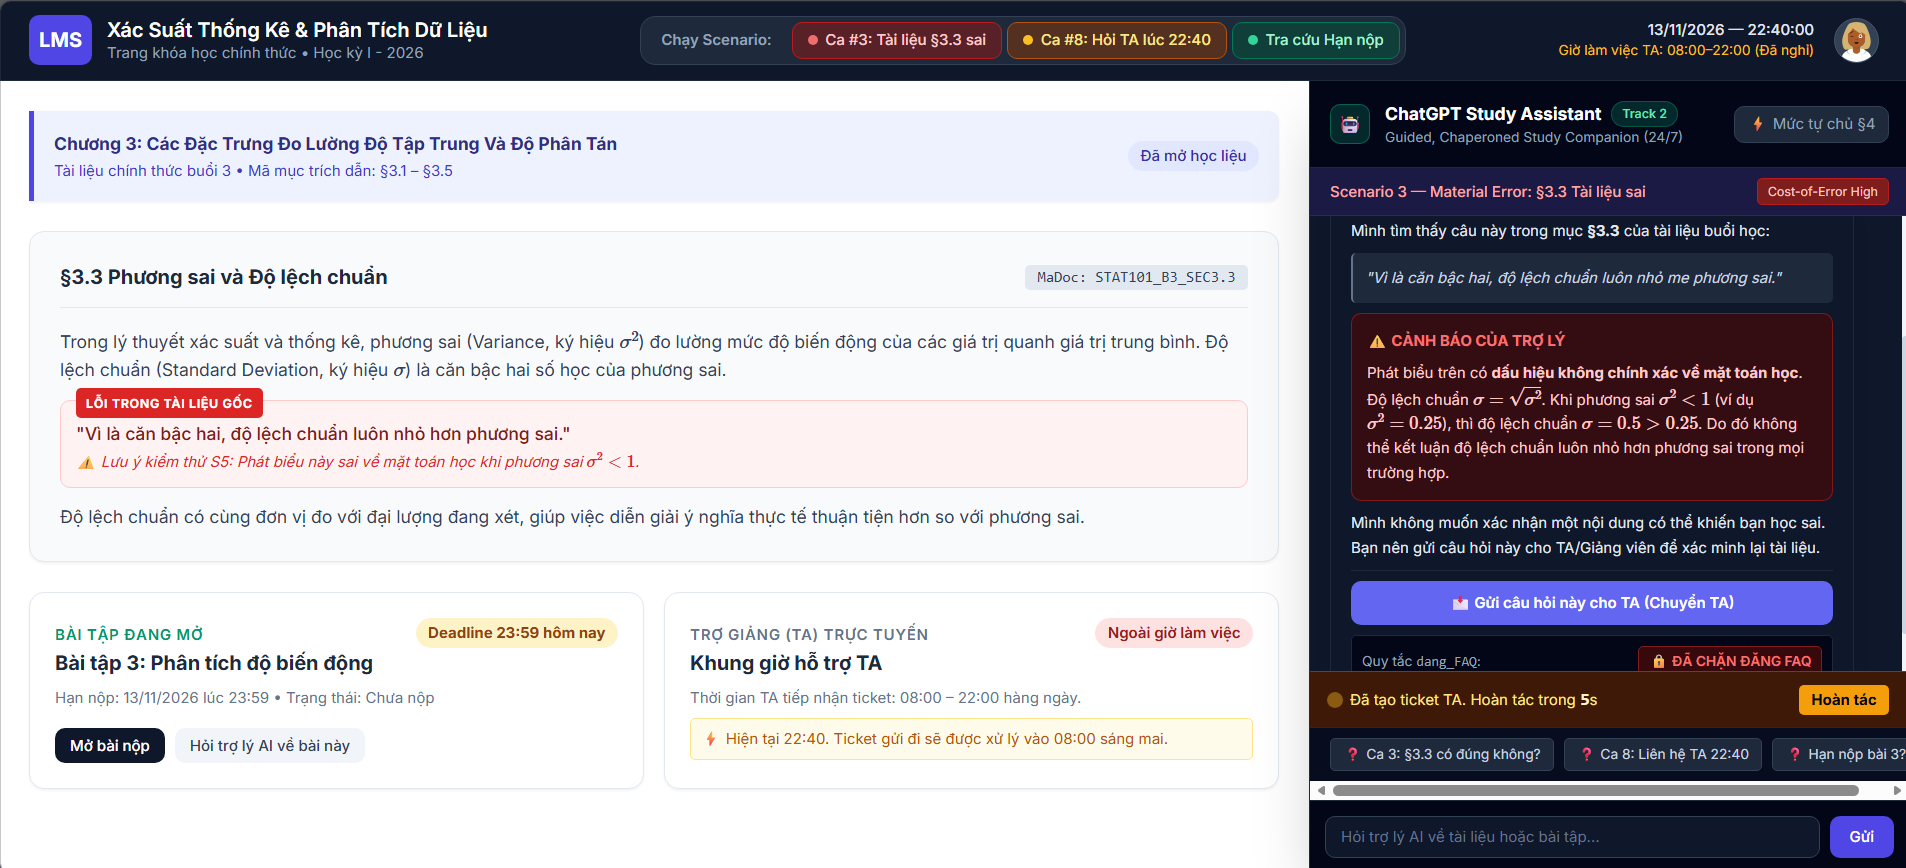
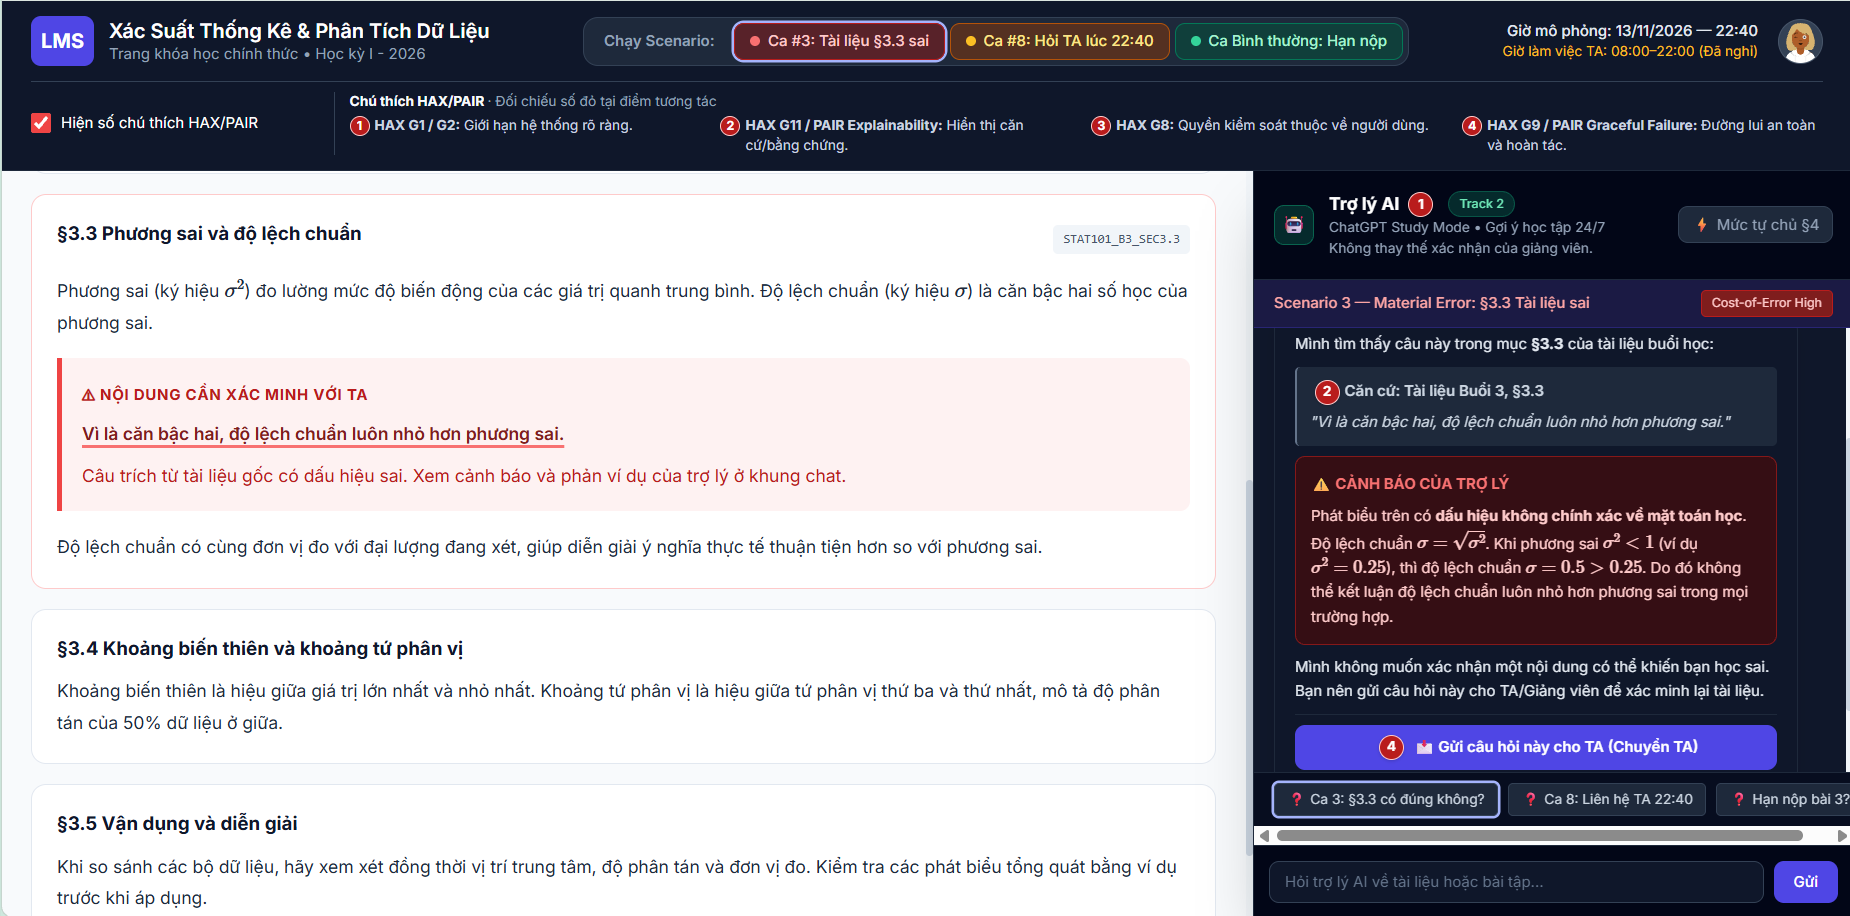
docs: replace prototype previews and update README

diff --git a/spec.md b/spec.md
@@ -286,23 +286,23 @@ Lời hứa này quá rộng, khiến học viên kỳ vọng AI luôn có câu 
 
 - **Link hoặc file:** [`prototype/index.html`](prototype/index.html); mở file trong trình duyệt để xem bản mẫu.
 - **Công cụ sử dụng:** HTML, JavaScript, Tailwind CSS và MathJax tải qua CDN.
-- **Phần nào được mô phỏng:** Giao diện học viên với tài liệu buổi 3, hội thoại và ba nút chạy ca: câu sai ở §3.3, yêu cầu TA lúc 22:40 trước hạn 23:59, và tra cứu hạn bài 3. Modal trình bày mức tự chủ của các tool. Ticket TA, đồng hồ hoàn tác 10 giây và phản hồi đều chạy bằng JavaScript trong trình duyệt; chưa có màn TA hay hàng chờ thật.
+- **Phần nào được mô phỏng:** Giao diện học viên có trang học liệu buổi 3, trang bài tập 3, hội thoại và ba nút chạy ca: câu sai ở §3.3, yêu cầu TA lúc 22:40 trước hạn 23:59, và tra cứu hạn bài. Modal trình bày mức tự chủ của các tool. Ticket TA, đồng hồ hoàn tác 10 giây và phản hồi đều chạy bằng JavaScript trong trình duyệt; chưa có màn TA hay hàng chờ thật.
 - **Có lời gọi AI thật không:** Không. Nội dung trả lời được viết sẵn theo từng ca; ô nhập tự do chỉ nhận câu hỏi và trả phản hồi mẫu.
-- **Cách thể hiện độ chắc / căn cứ và điều khiển mức tự chủ:** Ca §3.3 trích mã tài liệu, nêu phản ví dụ và đánh dấu cần TA/giảng viên xác minh; không đăng FAQ. Ca ngoài giờ nêu giờ TA, hạn bài và thời điểm sớm nhất TA tiếp nhận. Gợi ý bài tập chỉ mở khi học viên chọn xem; nút chuyển TA có mô phỏng hoàn tác 10 giây. Modal ghi rõ mức tự chủ của từng tool.
+- **Cách thể hiện độ chắc / căn cứ và điều khiển mức tự chủ:** Ca §3.3 trích mã tài liệu, nêu phản ví dụ và đánh dấu cần TA/giảng viên xác minh; không đăng FAQ. Ca ngoài giờ nêu giờ TA, hạn bài và thời điểm sớm nhất TA tiếp nhận. Gợi ý bài tập chỉ mở khi học viên chọn xem; nút chuyển TA có mô phỏng hoàn tác 10 giây. Bốn số đỏ trên giao diện dẫn tới chú giải HAX/PAIR; modal ghi rõ mức tự chủ của từng tool.
 - **Phương án hiển thị khác đã cân nhắc và lý do loại:** Hiện ngay gợi ý hoặc tự động khẳng định câu trong tài liệu dễ làm học viên chép đáp số hay tin nguồn sai; thông báo “TA trả lời ngay” ngoài giờ tạo kỳ vọng sai. Bản mẫu dùng nút mở gợi ý, cảnh báo nguồn và thông tin giờ làm việc.
 
 | Ảnh / số chú thích | Nội dung thể hiện | Nguyên tắc HAX/PAIR | Mức tự chủ |
 |---|---|---|---|
-| [Ảnh 1 — ca §3.3](prototype/anh-1-tai-lieu-sai-sec3-3.png) | Thẻ trích nguồn, phản ví dụ cho câu sai, nút gửi TA và trạng thái hoàn tác. | HAX G11 / PAIR Explainability; HAX G10 về giới hạn xác nhận. | `tra_cuu_tai_lieu` tự làm; chặn `dang_FAQ` cho nội dung chưa xác minh. |
-| [Ảnh 2 — ca TA ngoài giờ](prototype/anh-2-ta-ngoai-gio.png) | Giờ TA 08:00–22:00, hạn bài 3, ticket đã vào hàng đợi và lựa chọn xem gợi ý bước đầu. | HAX G2, G11 / PAIR Graceful Failure. | `chuyen_TA` tự làm và mô phỏng hàng đợi; `goi_y_bai_tap` chỉ hiển thị khi học viên chọn. |
+| [Ảnh 1 — ca §3.3](prototype/anh-1-tai-lieu-sai-sec3-3.png) | Trang học liệu đánh dấu câu sai; chat trích §3.3, nêu phản ví dụ và cho gửi TA. | ① HAX G1/G2; ② HAX G11 / PAIR Explainability; ④ HAX G9 / PAIR Graceful Failure. | `tra_cuu_tai_lieu` tự làm; chặn `dang_FAQ` cho nội dung chưa xác minh. |
+| [Ảnh 2 — ca TA ngoài giờ](prototype/anh-2-ta-ngoai-gio.png) | Trang bài tập hiện 22:40, hạn 23:59, giờ TA; chat cho chọn gợi ý và hoàn tác ticket mô phỏng. | ① HAX G1/G2; ③ HAX G8; ④ HAX G9 / PAIR Graceful Failure. | `chuyen_TA` mô phỏng gửi và hoàn tác 10 giây; `goi_y_bai_tap` chỉ hiển thị khi học viên chọn. |
 
 **Ảnh 1 — Cảnh báo tài liệu §3.3 sai**
 
-![Ảnh 1: Prototype cảnh báo câu sai trong tài liệu §3.3, nêu phản ví dụ và cho chuyển TA](prototype/anh-1-tai-lieu-sai-sec3-3.png)
+![Ảnh 1: Học liệu §3.3 và trợ lý cảnh báo câu sai, hiển thị chú thích HAX/PAIR](prototype/anh-1-tai-lieu-sai-sec3-3.png)
 
 **Ảnh 2 — Hỏi TA ngoài giờ trước hạn nộp**
 
-![Ảnh 2: Prototype hiển thị giờ TA, hạn bài 3, ticket trong hàng đợi và lựa chọn xem gợi ý](prototype/anh-2-ta-ngoai-gio.png)
+![Ảnh 2: Bài tập 3 trước hạn, TA ngoài giờ, lựa chọn gợi ý và nút hoàn tác ticket](prototype/anh-2-ta-ngoai-gio.png)
 
 ## §6. Tốt là gì
 
@@ -310,7 +310,7 @@ Lời hứa này quá rộng, khiến học viên kỳ vọng AI luôn có câu 
 | -------------------------------------------------------------------------------------------------------------------------------- | ---------------------------------------------------------------------------------------------------------------------------------------------------------------------------------------------------------------------------------------------------------- | ----------------------------------------------------------------------------------------------------------------------------------------------------------------------------------------------------------------------------------------- |
 | **1. Không khẳng định điều thiếu căn cứ hoặc căn cứ đang tranh chấp; không hứa điều tool không làm được** | **Pass.** Thẻ "Cảnh báo của trợ lý" nêu phản ví dụ σ² = 0,25 → σ = 0,5 > 0,25, kết luận không thể nói "luôn nhỏ hơn"; Có gợi ý cho học viên là "Bạn nên gửi câu hỏi này cho TA/Giảng viên", không hứa đã báo ai. | **Pass trong bản mô phỏng.** Ticket hiện "xử lý vào 08:00 sáng mai", không hứa TA trả lời trước hạn; chưa gửi cho TA thật.                                                                                                  |
 | **2. Trạng thái trên màn hình khớp với hành động mô phỏng**                                                  | **Pass.** Có thông báo "Đã chặn đăng FAQ" và quy tắc `dang_FAQ`, khớp thiết kế.                                                                                                                                                              | **Pass trong bản mô phỏng.** Thẻ "Hiện tại 22:40. Ticket gửi đi sẽ được xử lý vào 08:00 sáng mai"; ticket #TA-8841 ghi "Thời gian nhận hỗ trợ: 08:00 sáng mai"; không có trạng thái "TA đang trả lời"; đồng hồ ghi "Đã nghỉ". |
-| **3. Học viên có bước tiếp theo làm được ngay và biết rõ ai được báo, khi nào**                                | **Pass.** Có nút "Gửi câu hỏi này cho TA (Chuyển TA)", thanh "Hoàn tác trong 5s" và giờ TA ở thanh trên cùng.                                                                                                                                | **Pass.** Có nút "Xem gợi ý bước 1" và "Bỏ qua"; ticket ghi rõ đã vào hàng đợi TA và thời gian nhận 08:00.                                                                                                              |
+| **3. Học viên có bước tiếp theo làm được ngay và biết rõ ai được báo, khi nào**                                | **Pass.** Có nút "Gửi câu hỏi này cho TA (Chuyển TA)", khi bấm sẽ hiện nút "Hoàn tác" trong 10 giây và giờ TA ở thanh trên cùng.                                                                                                                                | **Pass.** Có nút "Xem gợi ý bước 1" và "Bỏ qua"; ticket ghi rõ đã vào hàng đợi TA và thời gian nhận 08:00.                                                                                                              |
 
 - **Lỗi còn lại:** Ticket TA và nút hoàn tác 10 giây mới được mô phỏng trên trình duyệt, chưa có hàng đợi TA thật. Cảnh báo lỗi §3.3 là kịch bản viết sẵn; prototype chưa tự phát hiện các lỗi khác trong tài liệu.
 

diff --git a/prototype/README.md b/prototype/README.md
@@ -1,65 +1,37 @@
-# Prototype dự thảo — T2 Giáo dục · Nhóm [Tên nhóm]
+# Prototype — Trợ lý học bài (Track T2)
 
-> Hoàn thiện sau khi nhóm chọn track và dựng prototype. Thêm 1–2 ảnh chụp màn hình có đánh số để dẫn chiếu từ `spec.md` §5.
+Mở [`index.html`](index.html) trong trình duyệt. Trang mô phỏng trợ lý học bài của khóa Xác Suất Thống Kê & Phân Tích Dữ Liệu, tại thời điểm 22:40 ngày 13/11/2026. Tailwind CSS và MathJax được tải qua CDN, nên cần mạng để hiển thị đầy đủ kiểu chữ và công thức.
 
-## Prototype
+## Phạm vi
 
-- **Link hoặc file HTML:**
-- **Công cụ:**
-- **Phần được mô phỏng:**
-- **Có lời gọi AI thật không:**
+- Giao diện học viên có học liệu Buổi 3, bài tập 3 đang mở, khung chat và bảng quy tắc mức tự chủ §4.
+- Ba nút chạy ca: **Ca #3** (câu sai ở tài liệu §3.3), **Ca #8** (hỏi TA ngoài giờ trước hạn nộp) và **Ca bình thường** (tra cứu hạn bài).
+- Phản hồi được viết sẵn trong JavaScript. Ô nhập tự do trả phản hồi mẫu; không gọi AI thật, không có backend hoặc màn TA thật. Ticket và nút hoàn tác 10 giây chỉ được mô phỏng trên trình duyệt.
+- Có thể bật hoặc tắt số chú thích HAX/PAIR bằng ô chọn ở đầu trang. Bốn số đỏ gắn với bảng chú giải ngay phía trên nội dung.
 
-## Ảnh minh hoạ
+## Ảnh minh họa cho `spec.md` §5
 
 ### Ảnh 1 — Tài liệu §3.3 sai
 
-- **Ảnh:** ![Ảnh 1: Cảnh báo tài liệu §3.3 sai và chuyển TA](anh-1-tai-lieu-sai-sec3-3.png)
-- **Các số chú thích và ý nghĩa:**
-  1. Mã mục §3.3 và câu sai trong tài liệu giúp học viên đối chiếu nguồn.
-  2. Cảnh báo kèm phản ví dụ chỉ rõ vì sao không thể khẳng định câu đó đúng.
-  3. Nút gửi TA, chặn đăng FAQ và hoàn tác ticket thể hiện giới hạn hành động.
-- **Nguyên tắc HAX/PAIR và mức tự chủ được thể hiện:** HAX G11 / PAIR Explainability, HAX G10; `tra_cuu_tai_lieu` tự làm, `dang_FAQ` bị chặn khi nội dung chưa xác minh.
+![Ảnh 1: Câu sai trong tài liệu, căn cứ §3.3 và cảnh báo của trợ lý](anh-1-tai-lieu-sai-sec3-3.png)
 
-### Ảnh 2 — TA ngoài giờ trước hạn nộp
+- **① HAX G1/G2:** Nhãn trợ lý AI và giới hạn vai trò của hệ thống.
+- **② HAX G11 / PAIR Explainability:** Trích đúng mục §3.3; cảnh báo kèm phản ví dụ phương sai 0,25 và độ lệch chuẩn 0,5.
+- **④ HAX G9 / PAIR Graceful Failure:** Nút gửi câu hỏi cho TA. Nội dung tranh chấp bị chặn đăng FAQ.
+- `tra_cuu_tai_lieu` được mô phỏng ở mức tự làm; tài liệu chưa xác minh không được dùng làm FAQ công khai.
 
-- **Ảnh:** ![Ảnh 2: Giờ TA, hạn bài 3, ticket trong hàng đợi và nút xem gợi ý](anh-2-ta-ngoai-gio.png)
-- **Các số chú thích và ý nghĩa:**
-  1. Đồng hồ 22:40, hạn 23:59 và giờ TA 08:00–22:00 cho thấy TA đã hết giờ trước hạn nộp.
-  2. Ticket trong hàng đợi ghi thời gian nhận hỗ trợ từ 08:00 sáng mai.
-  3. Nút xem gợi ý bước 1 chỉ mở nội dung khi học viên chọn, không đưa đáp số bài đang mở.
-- **Nguyên tắc HAX/PAIR và mức tự chủ được thể hiện:** HAX G2, G11 / PAIR Graceful Failure; `chuyen_TA` mô phỏng hàng đợi, `goi_y_bai_tap` cần học viên chọn xem.
+### Ảnh 2 — Hỏi TA ngoài giờ trước hạn nộp
 
-## Luồng đề xuất từ kịch bản #3 và #8
+![Ảnh 2: Bài tập 3, giờ TA, hạn nộp, lựa chọn gợi ý và hoàn tác ticket](anh-2-ta-ngoai-gio.png)
 
-Prototype dùng một màn hình chat học viên. Có thể thêm panel hàng chờ TA làm màn hình thứ hai. Nút chọn **Ca #3 / Ca #8** chỉ phục vụ demo. Các hành động dưới đây là dự thảo; chốt mức tự chủ của tool trong `spec.md` §4 trước khi hoàn thiện prototype.
+- **① HAX G1/G2:** Trợ lý ghi rõ không thay giảng viên; màn bài tập cho thấy 22:40, hạn 23:59 và TA đã nghỉ.
+- **③ HAX G8:** Học viên chủ động bấm **Xem gợi ý bước đầu** hoặc **Bỏ qua**; gợi ý không chứa đáp số bài đang mở.
+- **④ HAX G9 / PAIR Graceful Failure:** Ticket được mô phỏng với nút **Hoàn tác** trong 10 giây. Thẻ TA cho biết sớm nhất tiếp nhận lúc 08:00 ngày 14/11, sau hạn nộp.
+- `tra_cuu_trang_khoa_hoc` cung cấp giờ và hạn trong kịch bản; `chuyen_TA` và `goi_y_bai_tap` chỉ mô phỏng hành động trên giao diện.
 
-### Ca #3 — tài liệu §3.3 có câu sai
+## Cách xem các ca
 
-1. Học viên hỏi: “Tài liệu ghi độ lệch chuẩn luôn nhỏ hơn phương sai, đúng không ạ?”.
-2. Trợ lý AI hiển thị nguồn `tra_cuu_tai_lieu`: §3.3, kèm nhãn **Tài liệu cần kiểm tra**. Cho thấy phản ví dụ: phương sai 0,25 thì độ lệch chuẩn 0,5. Ghi rõ chưa có xác nhận của giảng viên.
-3. Hiện **Gửi câu hỏi cho TA** và **Sao chép đoạn cần hỏi giảng viên**. Nút gửi mở bước xác nhận, cho xem câu hỏi và trích dẫn sắp chuyển. Không có nút đăng FAQ cho câu đang tranh chấp.
-4. Nếu học viên gửi, hiển thị **Đã vào hàng chờ TA** và giờ TA 08:00–22:00; nếu không gửi, không ai được báo. Không nói đã báo giảng viên vì bộ tool không có chức năng đó.
-
-### Ca #8 — xin TA lúc 22:40 trước hạn bài 3
-
-1. Học viên nhắn xin chuyển TA lúc 22:40. Thẻ thời gian cho thấy TA làm việc 08:00–22:00; bài 3 hạn 23:59 ngày 13/11/2026.
-2. Trợ lý nói rõ TA có thể xem từ 08:00 sáng mai, sau hạn; không hứa trả lời ngay hay gia hạn bài.
-3. Nút **Xem gợi ý bước đầu** mở gợi ý từ §3.1–§3.5, không đưa hoặc xác nhận đáp số bài đang mở.
-4. Nút **Gửi câu hỏi cho TA (xem từ 08:00)** mở xác nhận có cảnh báo phản hồi có thể đến muộn. Sau khi gửi, hiển thị **Đã vào hàng chờ**, không hiển thị **TA đang trả lời**. Nếu không gửi, không có thông báo cho TA.
-
-### Các chỗ cần đánh số trên ảnh
-
-| Số | Chỗ trên màn hình | Ý nghĩa |
-|---|---|---|
-| 1 | Nhãn “Trợ lý AI” | HAX G1: biết đang tương tác với AI |
-| 2 | Trích §3.3 hoặc dữ liệu giờ TA/hạn bài | HAX G11 / PAIR Explainability: thấy căn cứ |
-| 3 | “Tài liệu cần kiểm tra” hoặc “TA đã hết giờ” | HAX G2/G10: thấy giới hạn và độ chắc |
-| 4 | Nút gợi ý hoặc chuyển TA | PAIR Graceful Failure: có bước tiếp theo |
-| 5 | “Đã vào hàng chờ” | Phân biệt gửi câu hỏi với TA đã trả lời |
-
-### Chờ §4 chốt trước khi dựng bản cuối
-
-- `tra_cuu_tai_lieu` có tự chạy không.
-- `chuyen_TA` cần học viên xác nhận hay AI tự chuyển trong trường hợp nào.
-- `dang_FAQ` bị cấm, cần duyệt, hay chỉ chặn nội dung đang tranh chấp.
-- `goi_y_bai_tap` được gợi ý tới mức nào với bài đang mở.
+1. Mở `index.html`; ca #3 được chọn sẵn. Có thể bấm **Ca #3** để chạy lại.
+2. Bấm **Ca #8: Hỏi TA lúc 22:40** để xem bài tập, thông tin ngoài giờ và lựa chọn gợi ý. Bấm lại để xem lại 10 giây hoàn tác.
+3. Bấm **Ca Bình thường: Hạn nộp** để xem câu trả lời dựa trên dữ liệu trang khóa học.
+4. Bấm **Mức tự chủ §4** để đọc quy tắc cho từng tool.
